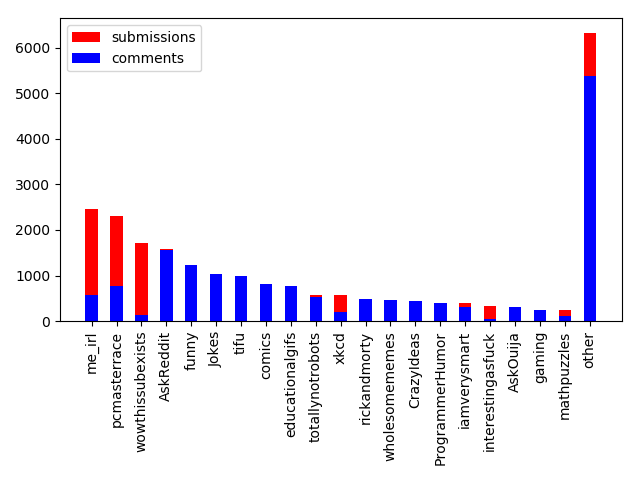
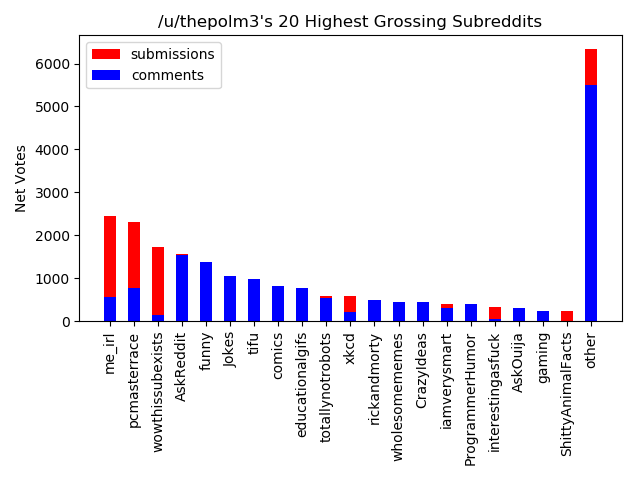
Add title and axis labels to graph
add line in scores.txt for username

diff --git a/getUserStats.py b/getUserStats.py
@@ -14,6 +14,9 @@ reddit = praw.Reddit(client_id = client_id,
 
 target = reddit.redditor(targetName)
 subredditScores = defaultdict(lambda: [0,0,0,0])
+
+print(f'Sucessfully reached /u/{targetName}\'s profile, now creating scores.txt (This may take up to a minute)')
+
 for comment in target.comments.new(limit = None):
     subredditScores[comment.subreddit.display_name][0] += comment.score
     subredditScores[comment.subreddit.display_name][2] += 1
@@ -25,5 +28,5 @@ for submission in target.submissions.new(limit = None):
 subredditScores = sorted(subredditScores.items(), key=lambda t: t[1][0] + t[1][1], reverse = True)
 
 with open('scores.txt','w+') as f:
-	f.write('\n'.join([f'{subreddit}:{v[0]}+{v[1]}:{v[2]}+{v[3]}' for  subreddit, v in subredditScores]))
+	f.write(f'{targetName}\n' + '\n'.join([f'{subreddit}:{v[0]}+{v[1]}:{v[2]}+{v[3]}' for  subreddit, v in subredditScores]))
 

diff --git a/createGraph.py b/createGraph.py
@@ -5,7 +5,9 @@ from pprint import pprint
 subredditScores = []
 with open('scores.txt') as f:
 
+	username = f.readline()[:-1]
 	for line in f.readlines():
+
 		subreddit, scores, n = line.split(':')
 		scores = [int(i) for i in scores.split('+')]
 		n = [int(i) for i in n.split('+')]
@@ -28,8 +30,9 @@ bar2 = plt.bar(ind, votes, width, color = 'blue')
 plt.legend([bar1,bar2], ['submissions','comments'])
 plt.xticks(ind, labels, rotation='vertical')
 
-plt.tight_layout()
-plt.savefig('plot.png')
+plt.title(f"/u/{username}'s {N} Highest Grossing Subreddits")
+plt.ylabel('Net Votes')
 
-if __name__ == '__main__':
-	plt.show()
+plt.tight_layout()
+plt.show()
+plt.savefig('plot.png')
